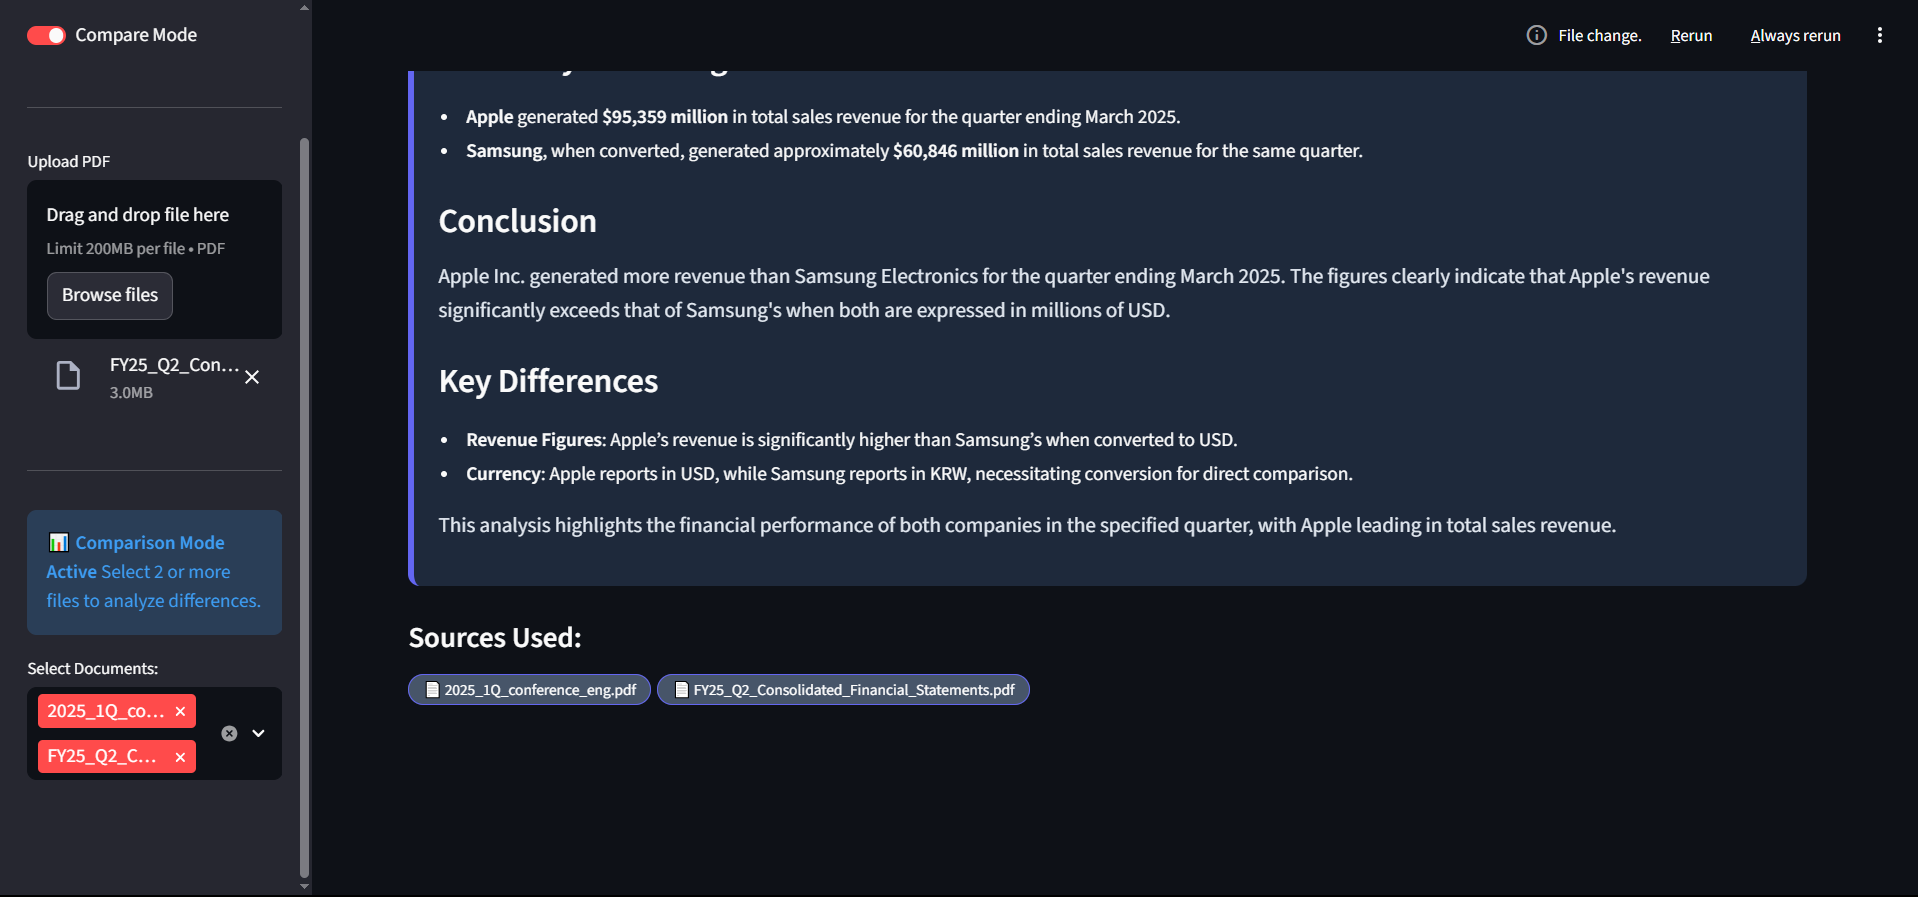
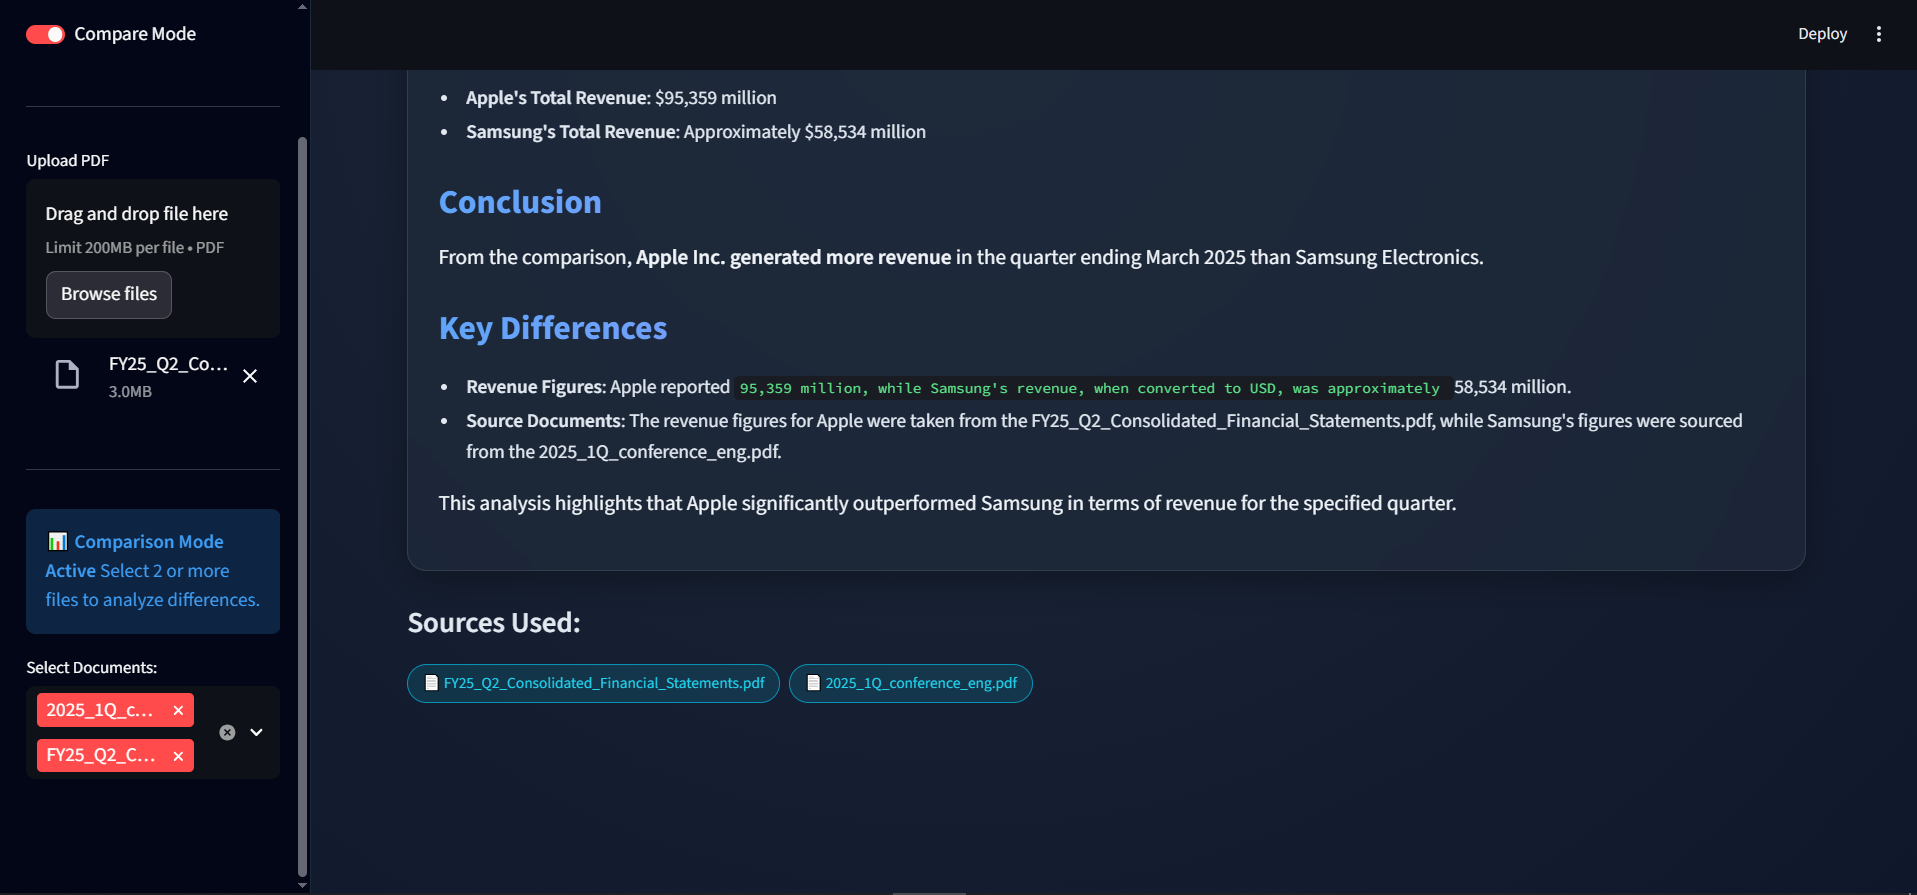
Updated UI of rag app

diff --git a/streamlit_app.py b/streamlit_app.py
@@ -20,25 +20,81 @@ if "last_uploaded" not in st.session_state:
 #CSS STYLING
 st.markdown("""
     <style>
-    .answer-card {
-        background-color: #1E293B;
-        padding: 20px;
-        border-radius: 10px;
-        border-left: 5px solid #6366F1;
-        margin: 20px 0;
+    /* 1. MAIN BACKGROUND: Deep Navy with a "Shiny" Gradient */
+    .stApp {
+        background: radial-gradient(circle at 50% 0%, #1e293b 0%, #0f172a 100%);
+        color: #e2e8f0;
     }
-    .answer-card p { color: #E2E8F0; font-size: 1.1rem; }
-    .source-tag {
-        background-color: #475569;
+
+    /* 2. SIDEBAR: Darker, Solid Navy */
+    section[data-testid="stSidebar"] {
+        background-color: #020617;
+        border-right: 1px solid #1e293b;
+    }
+
+    /* 3. HEADERS: Gradient Text (The "Shiny" Effect on Titles) */
+    h1, h2, h3 {
+        background: linear-gradient(90deg, #60a5fa, #c084fc);
+        -webkit-background-clip: text;
+        -webkit-text-fill-color: transparent;
+        font-weight: 800 !important;
+    }
+
+    /* 4. ANSWER CARD: Glassmorphism (See-through glass effect) */
+    .answer-card {
+        background: rgba(30, 41, 59, 0.7); /* Semi-transparent navy */
+        backdrop-filter: blur(12px);       /* Blurs what's behind it */
+        padding: 25px;
+        border-radius: 16px;
+        border: 1px solid rgba(255, 255, 255, 0.1); /* Subtle white border */
+        box-shadow: 0 8px 32px 0 rgba(0, 0, 0, 0.3); /* Deep shadow */
+        margin-top: 20px;
+        margin-bottom: 20px;
+    }
+    .answer-card p {
+        color: #f1f5f9 !important; /* Bright white-gray text */
+        font-size: 1.1rem;
+        line-height: 1.6;
+    }
+
+    /* 5. BUTTONS: Glowing Gradient */
+    .stButton>button {
+        background: linear-gradient(90deg, #4f46e5, #7c3aed); /* Indigo to Purple */
+        color: white !important;
+        border: none;
+        border-radius: 12px;
+        height: 50px;
+        font-weight: bold;
+        transition: all 0.3s ease;
+        box-shadow: 0 4px 15px rgba(124, 58, 237, 0.4); /* Glowing purple shadow */
+    }
+    .stButton>button:hover {
+        transform: translateY(-2px);
+        box-shadow: 0 6px 20px rgba(124, 58, 237, 0.6);
+    }
+
+    /* 6. INPUT FIELDS: Clean Dark Blue */
+    .stTextInput>div>div>input {
+        background-color: #1e293b;
         color: white;
-        padding: 4px 12px;
-        border-radius: 15px;
+        border: 1px solid #475569;
+        border-radius: 10px;
+    }
+    
+    /* 7. SOURCE TAGS: Neon Cyan Capsules */
+    .source-tag {
+        background-color: rgba(6, 182, 212, 0.15); /* Transparent Cyan */
+        color: #22d3ee !important; /* Bright Cyan Text */
+        padding: 5px 12px;
+        border-radius: 20px;
         font-size: 0.8rem;
-        margin-right: 5px;
-        border: 1px solid #6366F1;
+        border: 1px solid #0891b2;
+        margin-right: 8px;
+        display: inline-block;
+        margin-top: 5px;
     }
     </style>
-""", unsafe_allow_html=True)
+    """, unsafe_allow_html=True)
 
 @st.cache_resource
 def get_inngest_client():
